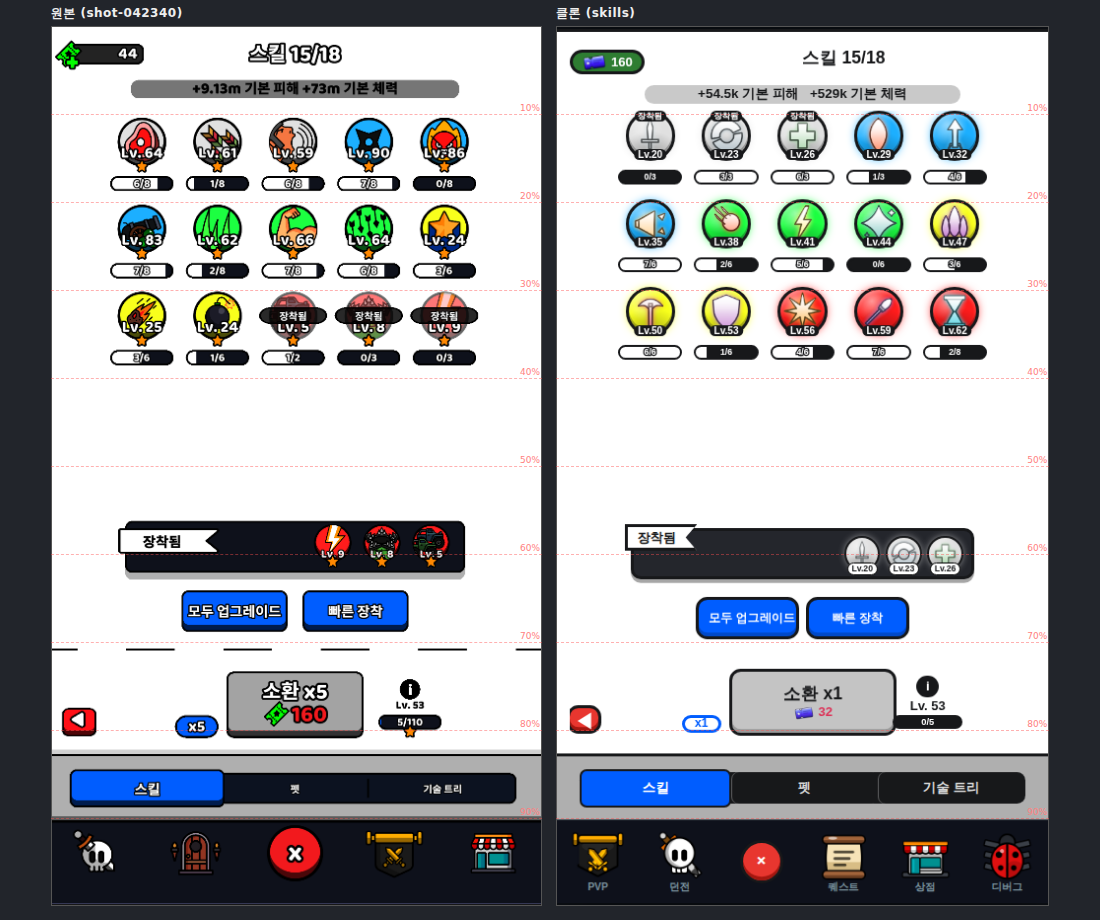
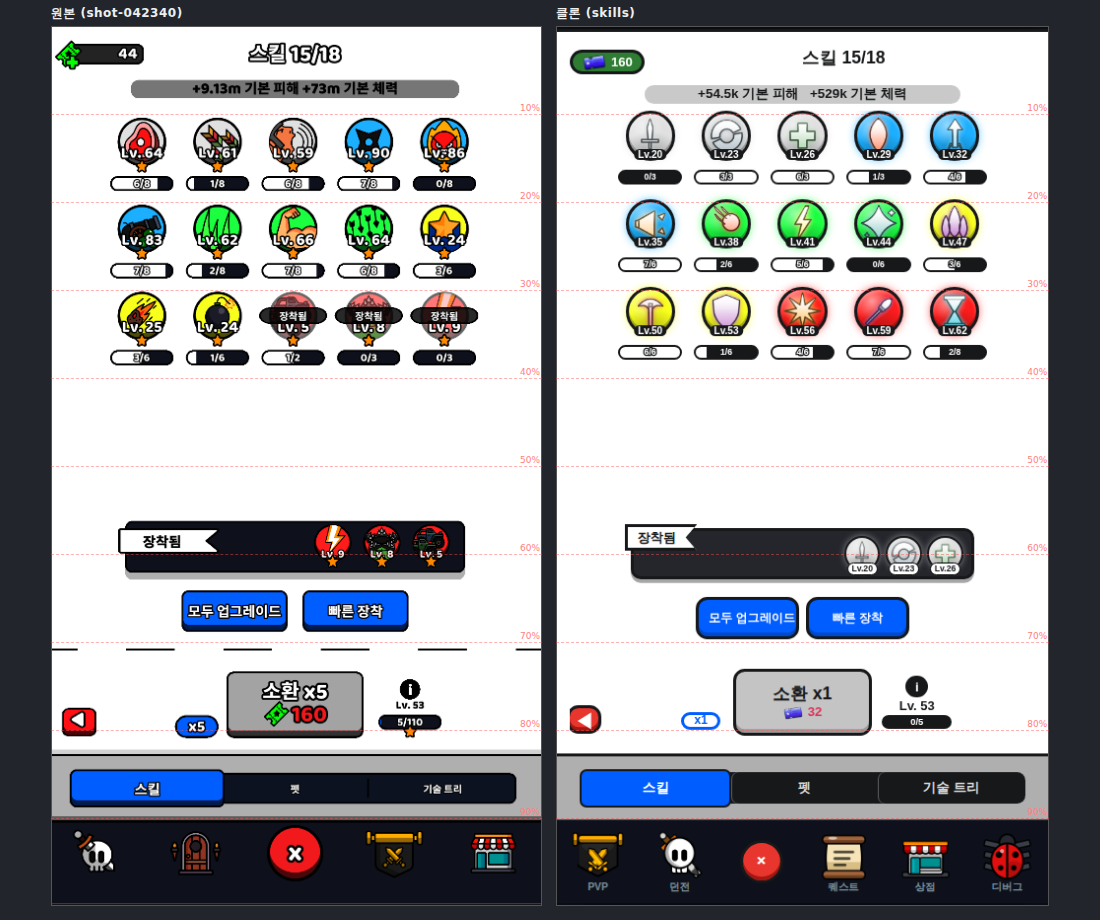
aaa-skin ④ 스킬 화면 — 소환 버튼 공용 폭 34.07%W 오측정 정정(.2837 — 042340 실측 139px, 펫 실측과 픽셀 일치)·바 패딩이 밀던 버튼/토글/info 를 원본 열(중심 49.6/29.3/73.3%W)에 정착·그리드 장착됨 리본 제거(원본 그리드엔 장착 표시 없음, 다크 플레이트 전담), probe-skills-dom 목표 갱신 후 PASS·31화면 에러 0

diff --git a/web/css/style.css b/web/css/style.css
@@ -3132,7 +3132,10 @@ body {
     position: absolute; left: calc(var(--app-w) * .0202 - .8rem); bottom: calc(var(--app-h) * .0022);
     width: calc(var(--app-w) * .0706); height: calc(var(--app-h) * .0326);
 }
-.summon-bar .btn.big { font-size: 1.05rem; padding: .3rem .6rem; min-height: calc(var(--app-h) * .0764); flex: 0 0 calc(var(--app-w) * .3407); } /* 소환 바 원본(shot-042356): 높이≈7% H, 폭≈28~35% W — 풀폭 금지. 스코프는 소환 바 기준 — 패널 스코프면 모달 소환 바(탈것)에 미적용 (QA 버그) */
+/* 폭 .3407 은 오측정이었다 — 원본 실측은 펫 042356/042445 **139px=28.37%W**(앞 세션), 스킬 042340
+   **x177~315 = 139px=28.02%W**(2026-08-18 채점 1라운드 교차검증, 중심 49.6%W). 두 컷이 독립적으로
+   같은 값이라 공용값을 .2837 로 교정한다(탈것 바는 원본 컷이 없어 같은 값을 따라간다). */
+.summon-bar .btn.big { font-size: 1.05rem; padding: .3rem .6rem; min-height: calc(var(--app-h) * .0764); flex: 0 0 calc(var(--app-w) * .2837); } /* 소환 바 원본: 높이≈7%H — 풀폭 금지. 스코프는 소환 바 기준 — 패널 스코프면 모달 소환 바(탈것)에 미적용 (QA 버그) */
 .panel .btn.xs { font-size: .72rem; padding: .3rem .5rem; line-height: 1.1; }
 .panel .btn.xs.info { background: #fff; }
 .summon-prog {
@@ -3258,6 +3261,15 @@ body {
 #panel-pets .summon-bar { position: relative; padding-left: 0; }
 #panel-pets .summon-bar > .x5-toggle { position: absolute; right: 67.4%; top: 50%; transform: translateY(-50%); }
 #panel-pets .summon-bar > .summon-info { position: absolute; left: 67.5%; top: 50%; transform: translateY(-50%); }
+/* 스킬 바도 같은 함정 — bar padding-left 5.5%W 가 flex 중심을 오른쪽으로 밀어 버튼 중심이 52.1%W 였다
+   (원본 042340: 버튼 중심 49.6%W · x5 토글 중심 29.3%W · info 열 중심 73.3%W — 채점 1라운드 실측).
+   펫과 같은 처방: 토글·info 를 절대 배치로 원본 열에 못박고 버튼만 흐름에 남겨 auto 마진 중앙. */
+#panel-skills .summon-bar { padding-left: 0; }
+/* left 는 바(패널 패딩 안쪽) 기준이라 앱 좌표로 앉히려면 패널 좌 패딩 .8rem 을 빼야 한다(◀ 규칙과 동일).
+   토글 세로는 가운데가 아니라 **소환 버튼 바닥선**(원본 pill y700~717 — 위 공용 규칙과 같은 근거)이다. */
+#panel-skills .summon-bar > .x5-toggle { position: absolute; left: calc(var(--app-w) * .2527 - .8rem); bottom: calc(var(--app-h) * .0034); }
+#panel-skills .summon-bar > .summon-info { position: absolute; left: calc(var(--app-w) * .6867 - .8rem); top: 50%; transform: translateY(-50%); }
+#panel-skills .summon-bar > .summon-btn { margin-left: auto; margin-right: auto; }
 /* 🚨 공용 `.summon-bar .btn.big` 의 폭 34.07%W 는 주석이 출처로 적은 shot-042356 과 맞지 않는다 —
    042356·042445 두 컷에서 원본 버튼은 모두 x 폭 139px = **28.37%W** 였다(폰트 로드 후 실측).
    스킬·탈것 소환 바는 아직 미실측이라 공용값은 그대로 두고 펫만 바로잡는다. */

diff --git a/web/js/ui.js b/web/js/ui.js
@@ -3286,10 +3286,12 @@ const UI = {
             const maxed = sk.level >= Skills.MAX_LEVEL;
             const need = Skills.shardsRequired(maxed ? Skills.MAX_LEVEL : sk.level);
             const ratio = U.clamp(sk.dupes / need, 0, 1) * 100;
+            // 원본(042340) 스킬 그리드에는 장착 표시가 없다 — 장착/미장착 오브 모두 검정 Lv 밴드+별뿐이고
+            // 장착 상태는 아래 '장착됨' 다크 플레이트가 전담한다(042340 1행 3배 확대 확인, 채점 1라운드).
+            // 리본은 펫 타일(042356 원본에 실재)에만 남긴다.
             return `<button class="sk-cell" onclick="UI.openSkillDetail('${d.id}')">
                 <span class="sk-orb" style="--rc:${RARITY_CSS[d.rarity]}">
                     ${IconGen.skill(d.id)}
-                    ${equipped ? '<span class="sk-ribbon">장착됨</span>' : ''}
                     <span class="sk-lv">Lv.${sk.level}</span>
                 </span>
                 ${sk.stars ? `<span class="sk-star">${IconGen.img('star')}${sk.stars}</span>` : ''}

diff --git a/web/tools/probe-skills-dom.js b/web/tools/probe-skills-dom.js
@@ -25,7 +25,9 @@ const T = [
     ['btn2',      '빠른 장착',               256,  104,  571,   43],
     ['back',      '◀ 뒤로가기',               10,   35,  690,   29],
     ['multPill',  'x5 배수 pill',            127,   40,  700,   18],
-    ['summonBtn', '소환 버튼',               177,  169,  653,   68],
+    // 🚨 w169(34.07%W) 는 오측정 화석 — 042340 실측 x177~315(키라인 포함) = **139px**(28.02%W).
+    //    펫 042356/042445 의 독립 실측(139px=28.37%W)과 픽셀 단위로 일치한다(채점 1라운드 정정).
+    ['summonBtn', '소환 버튼',               177,  139,  653,   68],
     ['summonInfo', '소환 info 열',            349,   46,  661,   59],
     ['subtabBar', '서브탭 바',                 0,  496,  732,   84],
     ['subtabAct', '서브탭 활성(스킬)',         20,  153,  754,   30],
